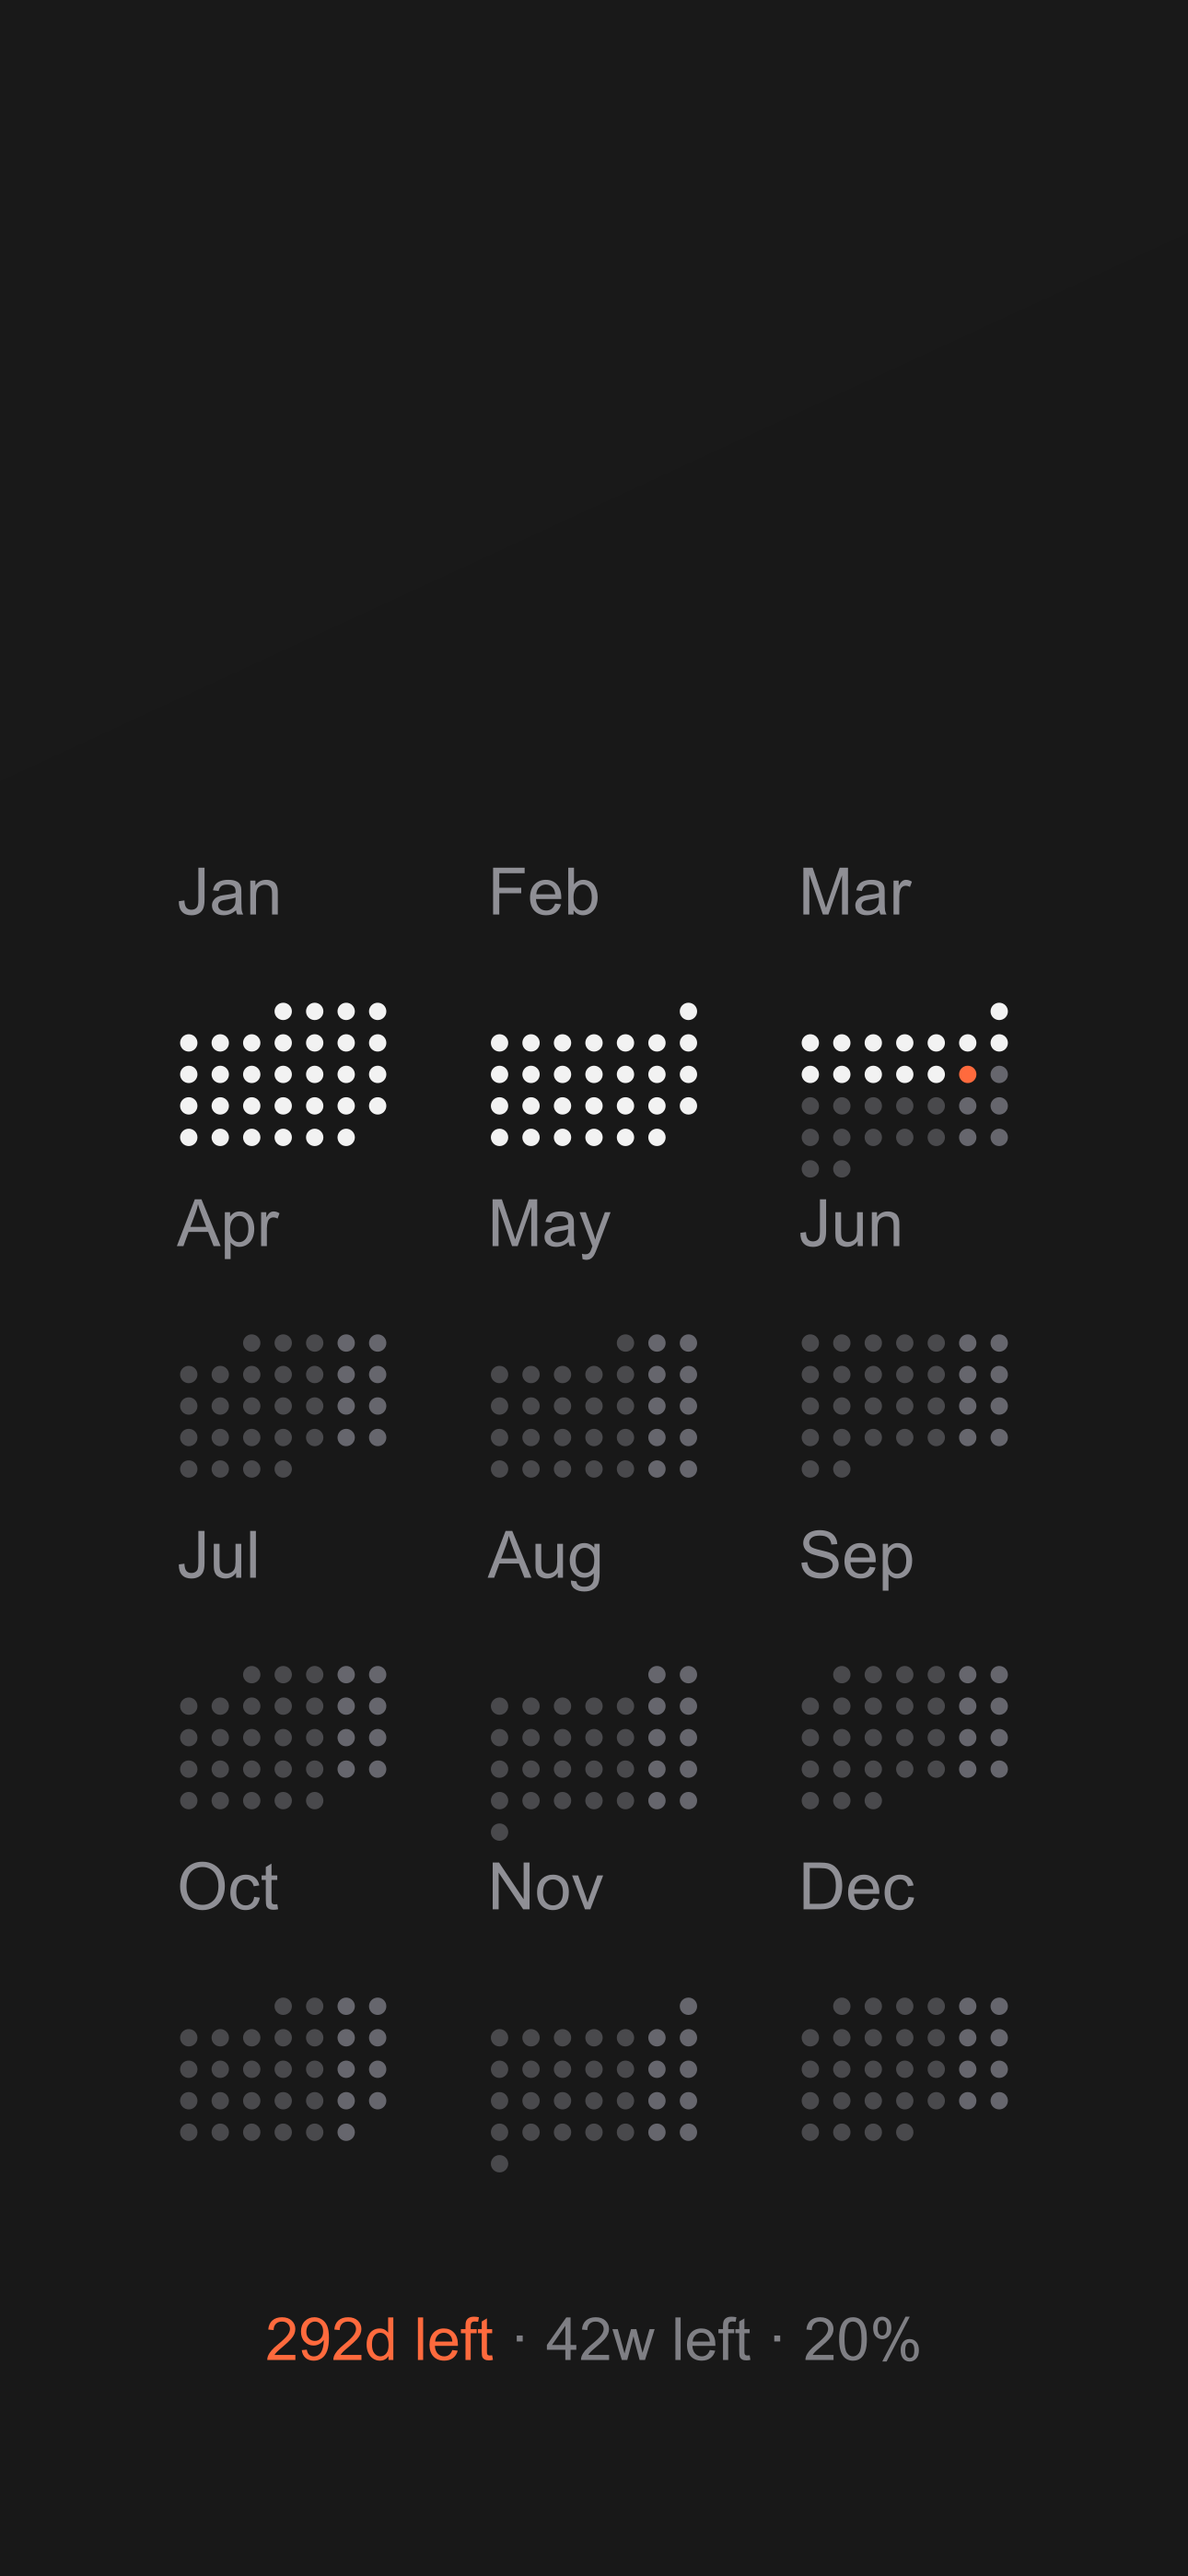
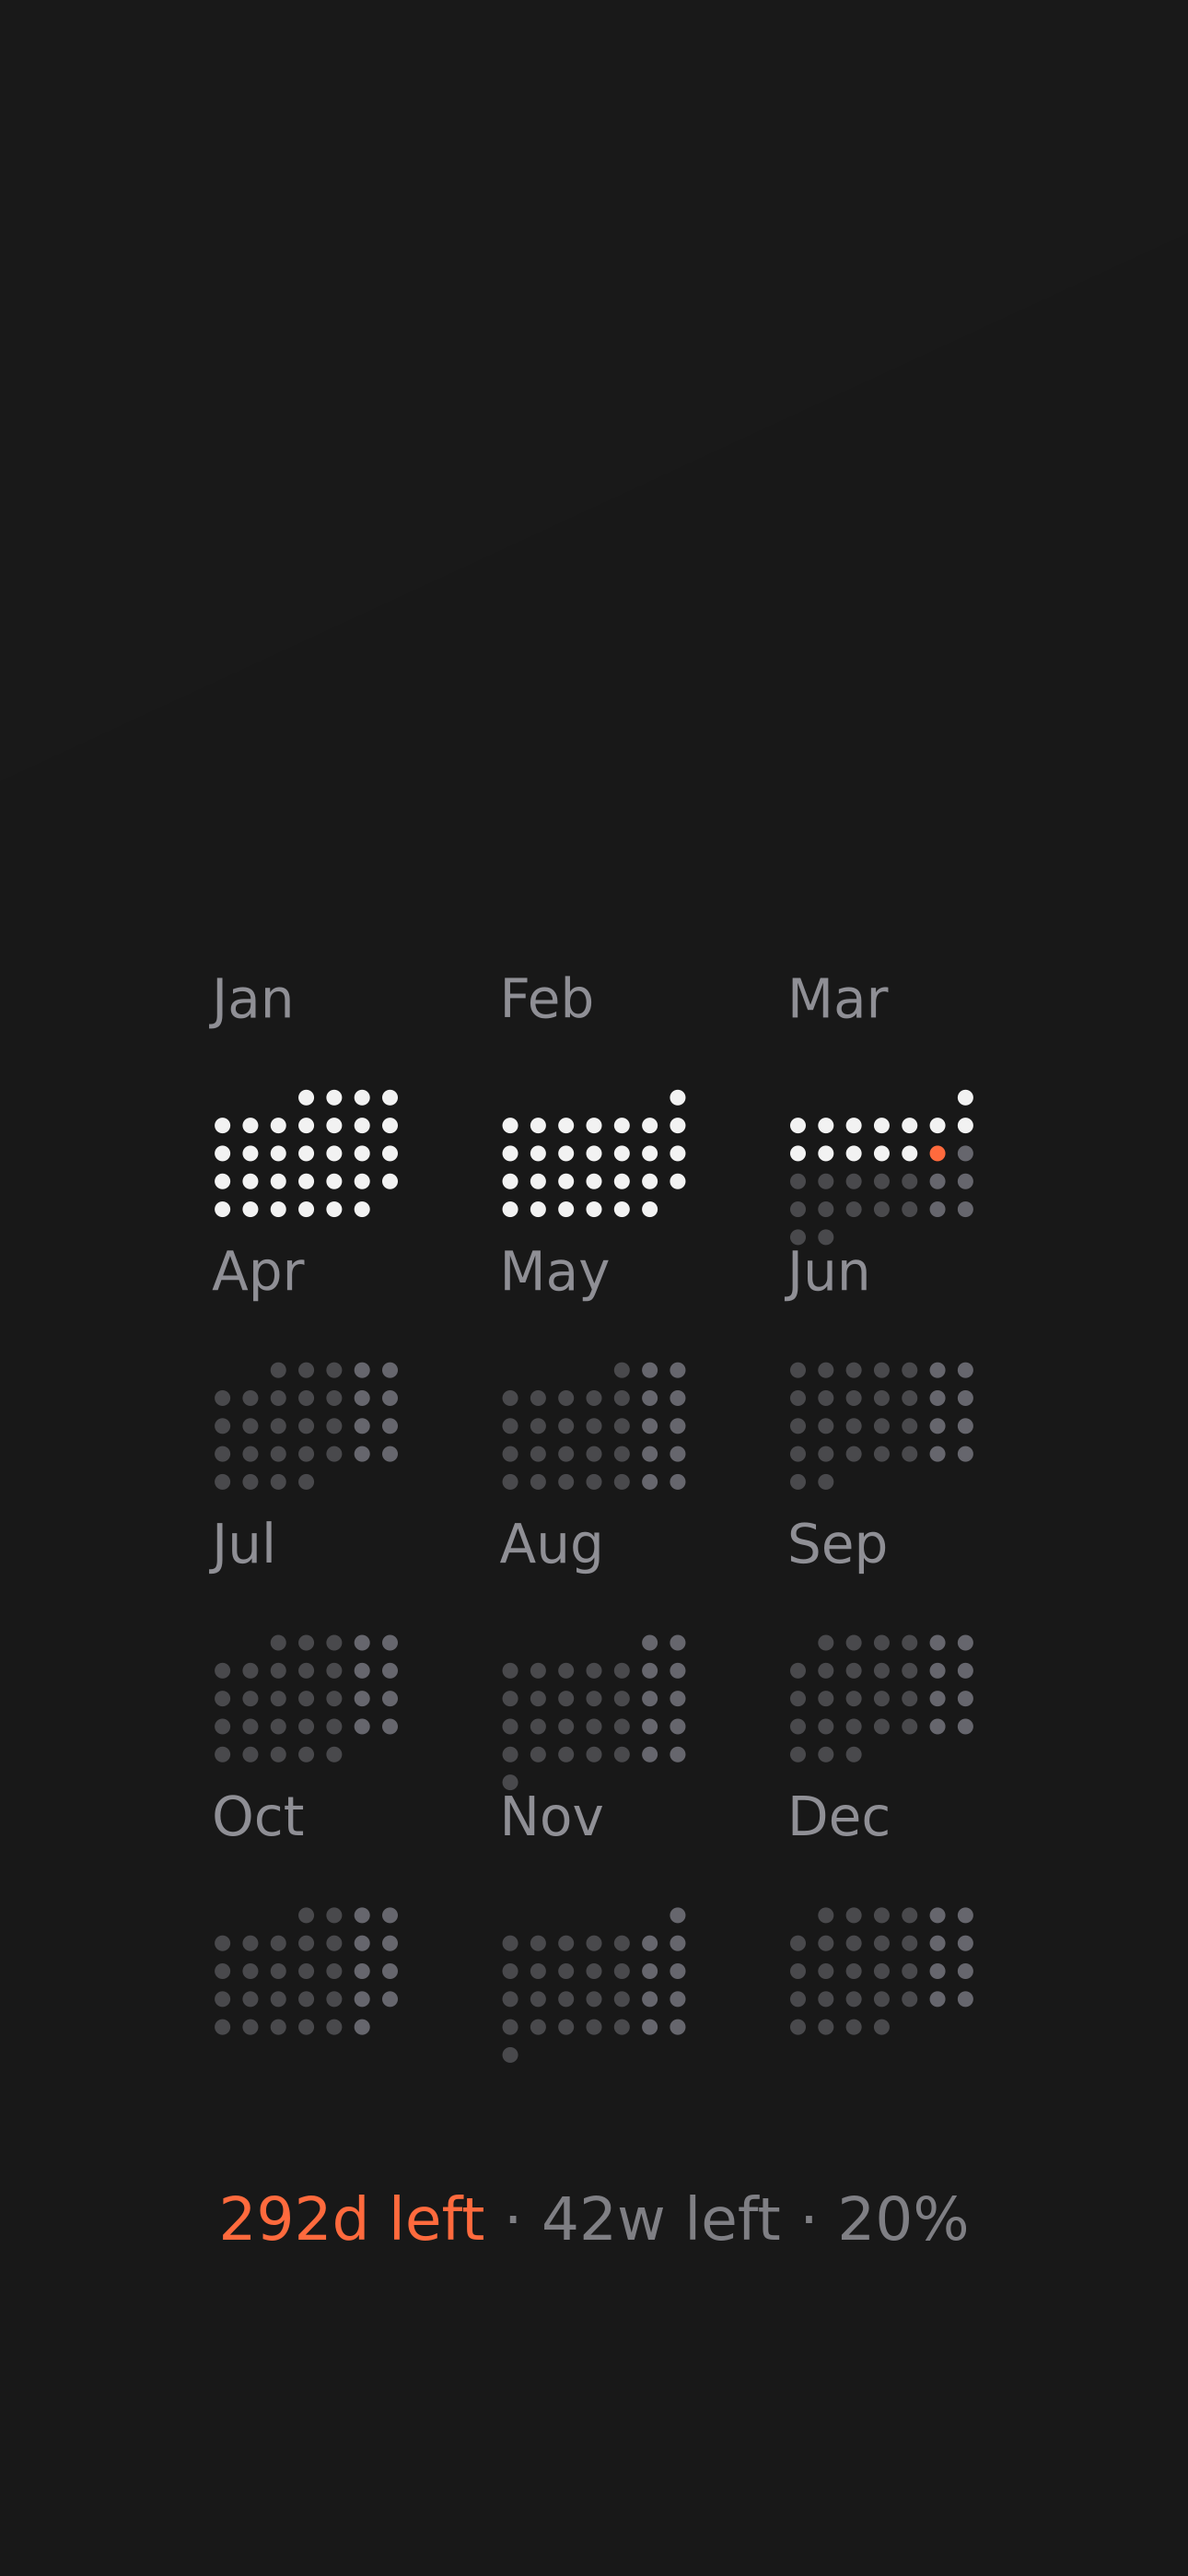
Adjust iPhone lock screen alignment

diff --git a/configs/iphone.js b/configs/iphone.js
@@ -12,24 +12,24 @@ module.exports = {
   highlightWeekends: true,
   gradientColors: BACKGROUND_GRADIENT,
   grid: {
-    topPaddingRatio: 0.355,
+    topPaddingRatio: 0.395,
     sidePaddingRatio: 0.11,
-    monthGapYRatio: 0.03,
+    monthGapYRatio: 0.02,
     monthGapXRatio: 0.088,
-    monthLabelSizeRatio: 0.055,
+    monthLabelSizeRatio: 0.045,
     monthLabelGapRatio: 1.35,
     monthLabelWeight: 400,
     monthLabelAlign: "left",
     monthLabelXOffsetRatio: -0.1,
-    dotSpacingRatio: 0.0265,
-    dotRadiusRatio: 0.0073
+    dotSpacingRatio: 0.0235,
+    dotRadiusRatio: 0.0066
   },
   progress: {
     show: true,
     textSizeRatio: 0.05,
     barWidthRatio: 0.58,
     barHeight: 7,
-    bottomInset: 230,
+    bottomInset: 360,
     textOffsetAboveBar: 20,
     showBar: false,
     secondaryColor: SHARED_COLORS.secondaryText,
